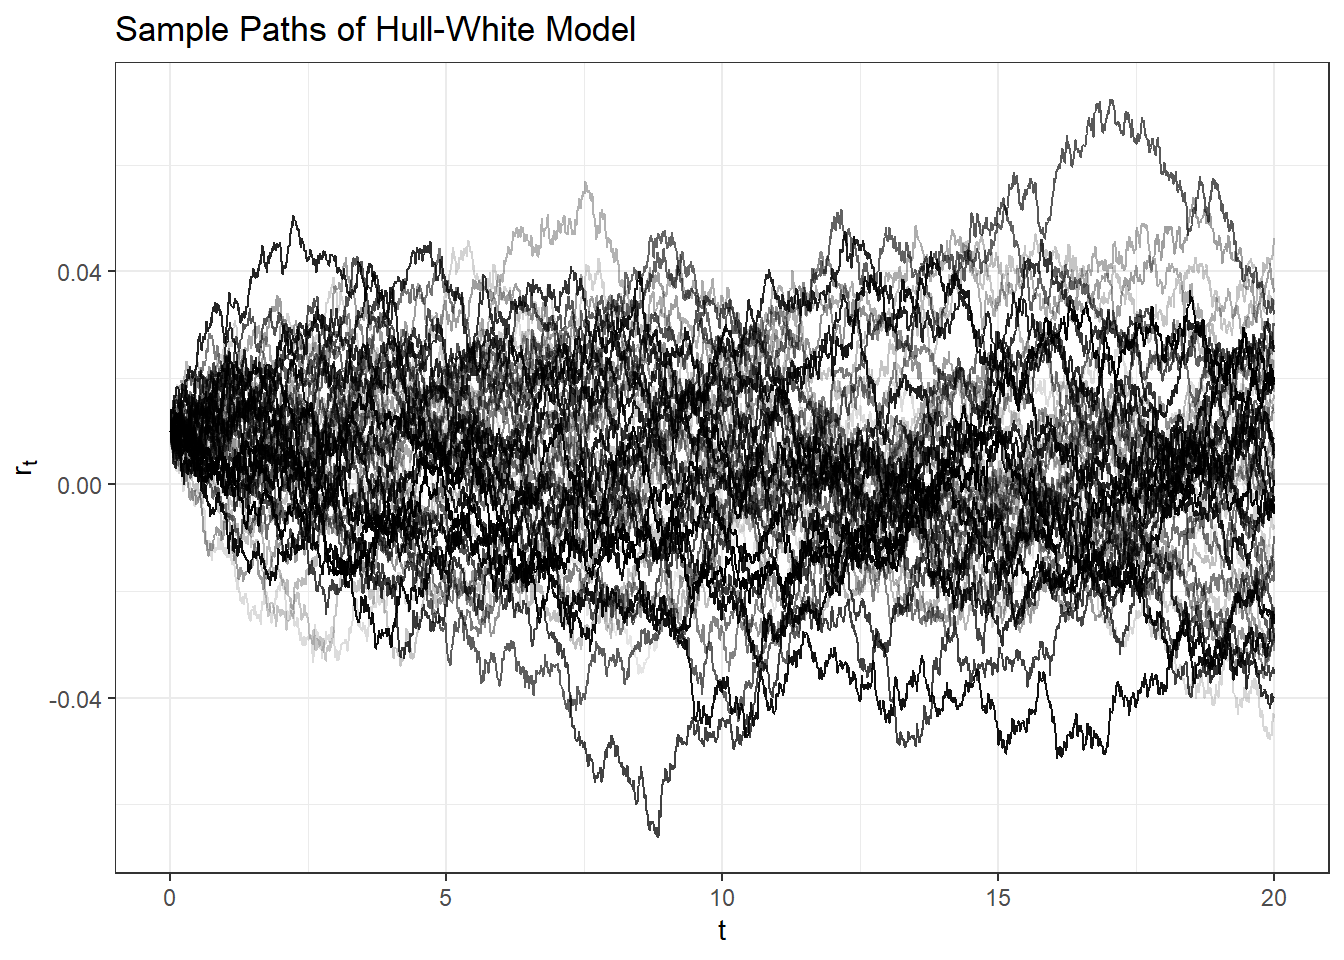
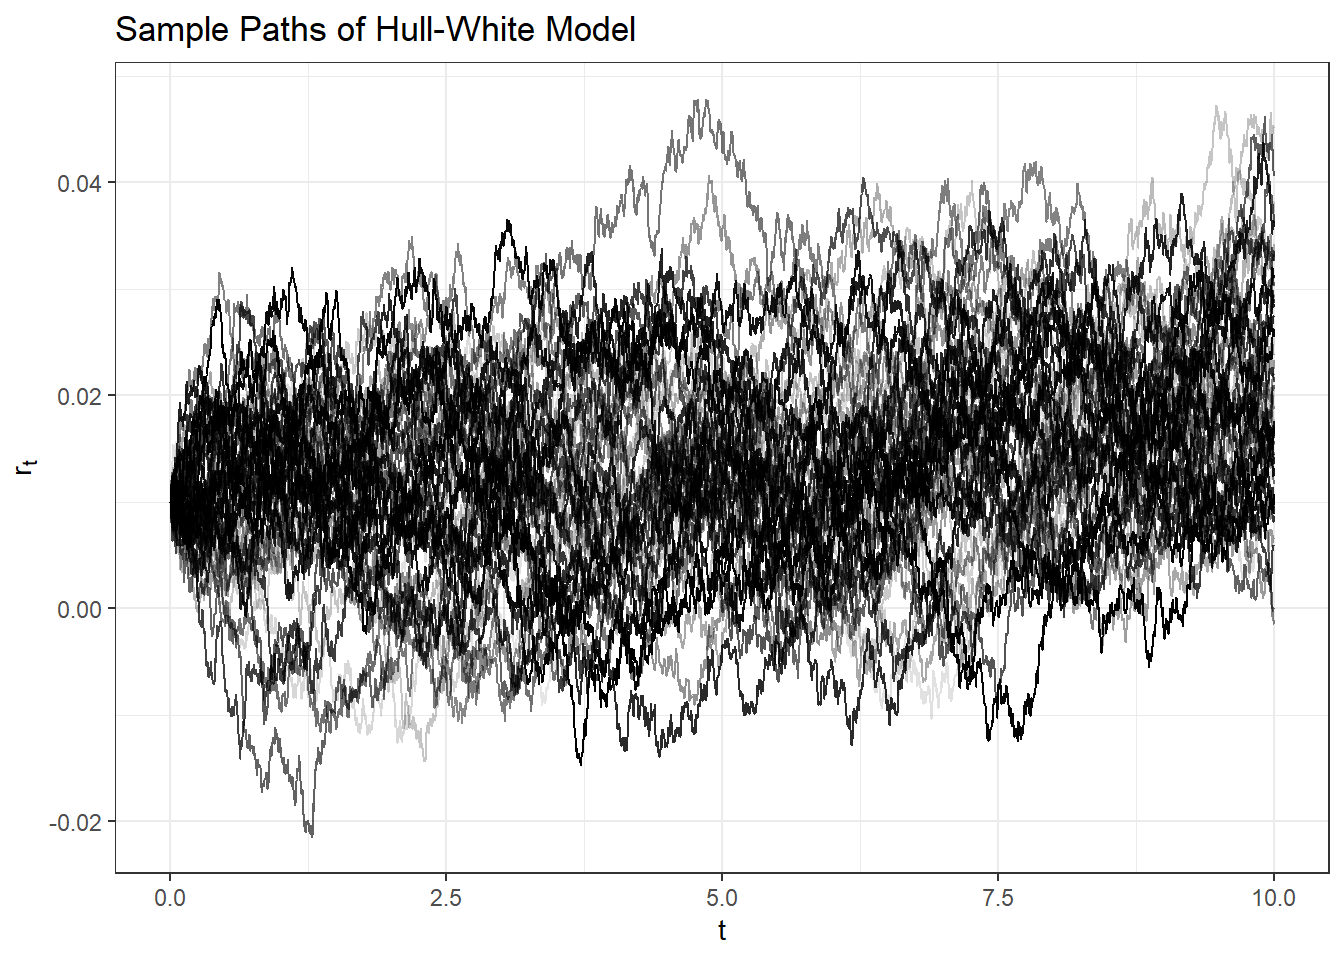
update hull-white

diff --git a/docs/src/hull-white.html b/docs/src/hull-white.html
@@ -242,7 +242,7 @@ window.Quarto = {
 
 
 <p>Hull-Whiteモデルは、Vasicekモデルの平均回帰パラメータを時間依存させることにより、市場で観測される金利の期間構造に完全に適合できるように拡張された金利モデルである。市場価格と整合的な無裁定評価を行うための標準的なモデルの一つとして利用される。</p>
-<p>Hull-White モデルは、瞬間短期金利 <span class="math inline">\(r_t\)</span> を以下の確率微分方程式に従う確率過程で表現する。</p>
+<p>Hull-White モデルは、瞬間短期金利 <span class="math inline">\(r_t\)</span> をリスク中立測度 <span class="math inline">\(Q\)</span> の下で次の確率微分方程式に従う確率過程として表現する。</p>
 <p><span class="math display">\[
 \begin{align}
 dr_t &amp;= (\theta(t) - \alpha\;r_t)\; dt + \sigma\; dW_t
@@ -258,7 +258,7 @@ dr_t &amp;= (\theta(t) - \alpha\;r_t)\; dt + \sigma\; dW_t
 + \alpha f(0, t)
 + \frac{\sigma^2}{2\alpha} (1 - e^{-2\alpha t})
 \]</span></p>
-<p>ここで、<span class="math inline">\(f(0, t)\)</span> は時点 <span class="math inline">\(0\)</span> における満期 <span class="math inline">\(t\)</span> の瞬間フォワード・レートであり、割引債債価格 <span class="math inline">\(v(0, t)\)</span> から以下のように定義される。</p>
+<p>ここで、<span class="math inline">\(f(0, t)\)</span> は時点 <span class="math inline">\(0\)</span> における満期 <span class="math inline">\(t\)</span> の瞬間フォワード・レートであり、割引債債価格 <span class="math inline">\(v(0, t)\)</span> との間に次の関係が成立する。</p>
 <p><span class="math display">\[
 f(0, t) = - \frac{\partial \ln v(0, t)}{\partial t}
 \]</span></p>
@@ -275,7 +275,7 @@ B(t,T)\;f(0,t)
 \right)
 \end{align}
 \]</span></p>
-<p>連続複利ベースのゼロレート <span class="math inline">\(\delta(t,T)\)</span> やその期間構造 <span class="math inline">\(Y_t(u)=\delta(t,t+u)\)</span> は <span class="math inline">\(r_t\)</span> に関する一次関数（アフィン写像）で表現される。</p>
+<p>よって、連続複利ベースのゼロレート <span class="math inline">\(\delta(t,T)\)</span> やその期間構造 <span class="math inline">\(Y_t(u)=\delta(t,t+u)\)</span> を <span class="math inline">\(r_t\)</span> に関する一次関数（アフィン写像）と見なすことができる。</p>
 <p><span class="math display">\[
 \begin{align}
 \delta(t,T;\ r_t)&amp;=-\frac{\ln v(t,T)}{T-t}=\frac{B(t,T)}{T-t}\;r_t
@@ -289,7 +289,7 @@ Y_t(u;\ r_t)&amp;=\frac{1-e^{-\alpha u}}{\alpha u}\;r_t
 +\left( -\frac{\ln A(t,t+u)}{u} \right)
 \end{align}
 \]</span></p>
-<p>ここで、右辺第一項は時点 <span class="math inline">\(t\)</span> におけるイールドカーブと瞬間短期金利 <span class="math inline">\(r_t\)</span> の関係を定めている。 連動の強さを表す係数 <span class="math inline">\(\beta(u)=(1-e^{-\alpha u})/(\alpha u)\)</span> は残存期間 <span class="math inline">\(u\)</span> に依存しており、<span class="math inline">\(u \to 0\)</span> で <span class="math inline">\(\beta(u) \to 1\)</span>、<span class="math inline">\(u \to \infty\)</span> で <span class="math inline">\(\beta(u) \to 0\)</span> であるから、残存期間が短期であるほど <span class="math inline">\(r_t\)</span> に強く連動し、長期であるほど <span class="math inline">\(r_t\)</span> の変化への反応が鈍くなります。 なお、<span class="math inline">\(\beta(u)\)</span> のグラフは平均回帰速度 <span class="math inline">\(\alpha\)</span> に応じて次のようになる。</p>
+<p>最後の式の右辺の第一項について、残存期間 <span class="math inline">\(u\)</span> に依存する係数 <span class="math inline">\(\beta(u)=(1-e^{-\alpha u})/(\alpha u)\)</span> は <span class="math inline">\(u \to 0\)</span> で <span class="math inline">\(\beta(u) \to 1\)</span>、<span class="math inline">\(u \to \infty\)</span> で <span class="math inline">\(\beta(u) \to 0\)</span> であるから、イールドカーブ <span class="math inline">\(Y_t(u)\)</span> は残存期間が短期であるほど <span class="math inline">\(r_t\)</span> に強く連動し、長期であるほど <span class="math inline">\(r_t\)</span> の変化への反応が鈍くなっていく。 なお、<span class="math inline">\(\beta(u)\)</span> のグラフは平均回帰速度 <span class="math inline">\(\alpha\)</span> に応じて次のようになる。</p>
 <div class="cell" data-layout-align="center">
 <div class="cell-output-display">
 <div class="quarto-figure quarto-figure-center">
@@ -334,10 +334,10 @@ r_{t+\Delta t} &amp;= r_t + (\theta(t) - \alpha r_t)\;\Delta t + \sigma \sqrt{\D
 \]</span></p>
 <p>また、イールドカーブについて次が成り立つ。</p>
 <p><span class="math display">\[
-Y_0(t)=\delta(0,t)=\frac{1}{t}\int_0^{t}f(0,s)ds=r_0+\frac{\gamma}{2}t
-\]</span></p>
-<p><span class="math display">\[
 \begin{align}
+Y_0(t)&amp;=\delta(0,t)=\frac{1}{t}\int_0^{t}f(0,s)ds=r_0+\frac{\gamma}{2}t
+\\
+\\
 Y_t(u;\ r_t)
 &amp;= \delta_f(0,t,t+u)
 + [r_t-f(0,t)]\;\beta(u)
@@ -347,6 +347,7 @@ Y_t(u;\ r_t)
 + \left[r_t-(r_0+\gamma t)\right] \beta(u)
 \end{align}
 \]</span></p>
+<p>たとえば、<span class="math inline">\(\alpha=0.5\)</span>、<span class="math inline">\(f(0, t) = 0.01 + 0.001 t\)</span> のとき、<span class="math inline">\(t=10\)</span> におけるイールドカーブは次の図のようになる。</p>
 <div class="cell" data-layout-align="center">
 <div class="cell-output-display">
 <div class="quarto-figure quarto-figure-center">
@@ -356,6 +357,7 @@ Y_t(u;\ r_t)
 </div>
 </div>
 </div>
+<p>このカーブのベースラインは <span class="math inline">\(Y_{10}(u)=0.02+0.0005u\)</span> であり、足元の瞬間金利の当初予測からの乖離に関する調整 <span class="math inline">\((r_t-0.02)\beta(u)\)</span> によってイールドカーブ全体が上下に移動する。 このため、Hull-White モデルにおけるイールドカーブは、年限の異なるイールドの（確定的なベースラインの経時的変化を除いた）確率的な変動が互いに完全相関してしまうという特徴を持つ。</p>
 <p>以下、離散化した Hull-White モデルの見本路を計算してプロットする。</p>
 <div class="tabset-margin-container"></div><div class="panel-tabset">
 <ul class="nav nav-tabs" role="tablist"><li class="nav-item" role="presentation"><a class="nav-link active" id="tabset-1-1-tab" data-bs-toggle="tab" data-bs-target="#tabset-1-1" role="tab" aria-controls="tabset-1-1" aria-selected="true">R</a></li></ul>
@@ -366,23 +368,23 @@ Y_t(u;\ r_t)
 <span id="cb1-2"><a href="#cb1-2" aria-hidden="true" tabindex="-1"></a><span class="fu">theme_set</span>(<span class="fu">theme_bw</span>())</span>
 <span id="cb1-3"><a href="#cb1-3" aria-hidden="true" tabindex="-1"></a></span>
 <span id="cb1-4"><a href="#cb1-4" aria-hidden="true" tabindex="-1"></a><span class="co"># parameters</span></span>
-<span id="cb1-5"><a href="#cb1-5" aria-hidden="true" tabindex="-1"></a>years  <span class="ot">&lt;-</span> <span class="dv">20</span></span>
-<span id="cb1-6"><a href="#cb1-6" aria-hidden="true" tabindex="-1"></a>nsteps <span class="ot">&lt;-</span> <span class="dv">100</span> <span class="sc">*</span> years</span>
+<span id="cb1-5"><a href="#cb1-5" aria-hidden="true" tabindex="-1"></a>years  <span class="ot">&lt;-</span> <span class="dv">10</span></span>
+<span id="cb1-6"><a href="#cb1-6" aria-hidden="true" tabindex="-1"></a>nsteps <span class="ot">&lt;-</span> <span class="dv">252</span> <span class="sc">*</span> years</span>
 <span id="cb1-7"><a href="#cb1-7" aria-hidden="true" tabindex="-1"></a>dt     <span class="ot">&lt;-</span> years <span class="sc">/</span> nsteps</span>
 <span id="cb1-8"><a href="#cb1-8" aria-hidden="true" tabindex="-1"></a>times  <span class="ot">&lt;-</span> <span class="fu">seq</span>(<span class="dv">0</span>, years, <span class="at">by =</span> dt)</span>
 <span id="cb1-9"><a href="#cb1-9" aria-hidden="true" tabindex="-1"></a>npaths <span class="ot">&lt;-</span> <span class="dv">50</span></span>
 <span id="cb1-10"><a href="#cb1-10" aria-hidden="true" tabindex="-1"></a></span>
 <span id="cb1-11"><a href="#cb1-11" aria-hidden="true" tabindex="-1"></a>r0    <span class="ot">&lt;-</span> <span class="fl">0.01</span></span>
-<span id="cb1-12"><a href="#cb1-12" aria-hidden="true" tabindex="-1"></a>alpha <span class="ot">&lt;-</span> <span class="fl">0.1</span></span>
+<span id="cb1-12"><a href="#cb1-12" aria-hidden="true" tabindex="-1"></a>alpha <span class="ot">&lt;-</span> <span class="fl">0.5</span></span>
 <span id="cb1-13"><a href="#cb1-13" aria-hidden="true" tabindex="-1"></a>sigma <span class="ot">&lt;-</span> <span class="fl">0.01</span></span>
-<span id="cb1-14"><a href="#cb1-14" aria-hidden="true" tabindex="-1"></a>gamma <span class="ot">&lt;-</span> <span class="fl">0.002</span></span>
+<span id="cb1-14"><a href="#cb1-14" aria-hidden="true" tabindex="-1"></a>gamma <span class="ot">&lt;-</span> <span class="fl">0.001</span></span>
 <span id="cb1-15"><a href="#cb1-15" aria-hidden="true" tabindex="-1"></a></span>
 <span id="cb1-16"><a href="#cb1-16" aria-hidden="true" tabindex="-1"></a><span class="co"># function to calculate theta</span></span>
-<span id="cb1-17"><a href="#cb1-17" aria-hidden="true" tabindex="-1"></a>theta <span class="ot">&lt;-</span> <span class="cf">function</span>(t) {</span>
+<span id="cb1-17"><a href="#cb1-17" aria-hidden="true" tabindex="-1"></a>theta <span class="ot">&lt;-</span> <span class="cf">function</span>(t) {(</span>
 <span id="cb1-18"><a href="#cb1-18" aria-hidden="true" tabindex="-1"></a>  gamma</span>
 <span id="cb1-19"><a href="#cb1-19" aria-hidden="true" tabindex="-1"></a>  <span class="sc">+</span> alpha <span class="sc">*</span> (r0 <span class="sc">+</span> gamma <span class="sc">*</span> t)</span>
 <span id="cb1-20"><a href="#cb1-20" aria-hidden="true" tabindex="-1"></a>  <span class="sc">+</span> (sigma <span class="sc">^</span> <span class="dv">2</span> <span class="sc">/</span> (<span class="dv">2</span> <span class="sc">*</span> alpha)) <span class="sc">*</span> (<span class="dv">1</span> <span class="sc">-</span> <span class="fu">exp</span>(<span class="sc">-</span><span class="dv">2</span> <span class="sc">*</span> alpha <span class="sc">*</span> t))</span>
-<span id="cb1-21"><a href="#cb1-21" aria-hidden="true" tabindex="-1"></a>}</span>
+<span id="cb1-21"><a href="#cb1-21" aria-hidden="true" tabindex="-1"></a>)}</span>
 <span id="cb1-22"><a href="#cb1-22" aria-hidden="true" tabindex="-1"></a></span>
 <span id="cb1-23"><a href="#cb1-23" aria-hidden="true" tabindex="-1"></a><span class="co"># simulation</span></span>
 <span id="cb1-24"><a href="#cb1-24" aria-hidden="true" tabindex="-1"></a><span class="fu">set.seed</span>(<span class="dv">42</span>)</span>
